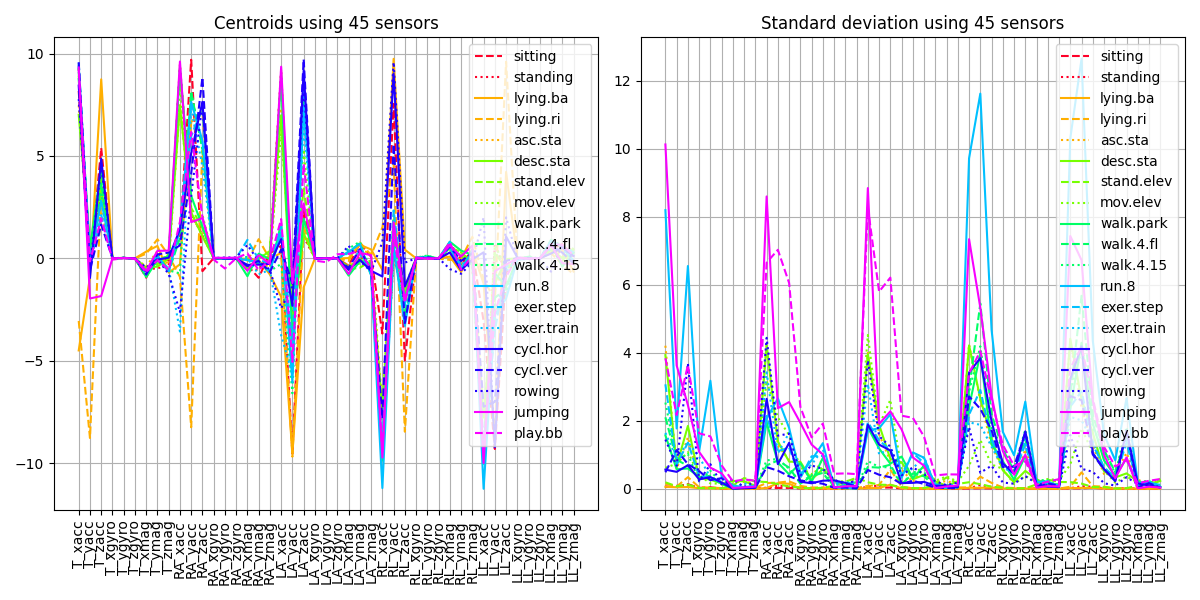
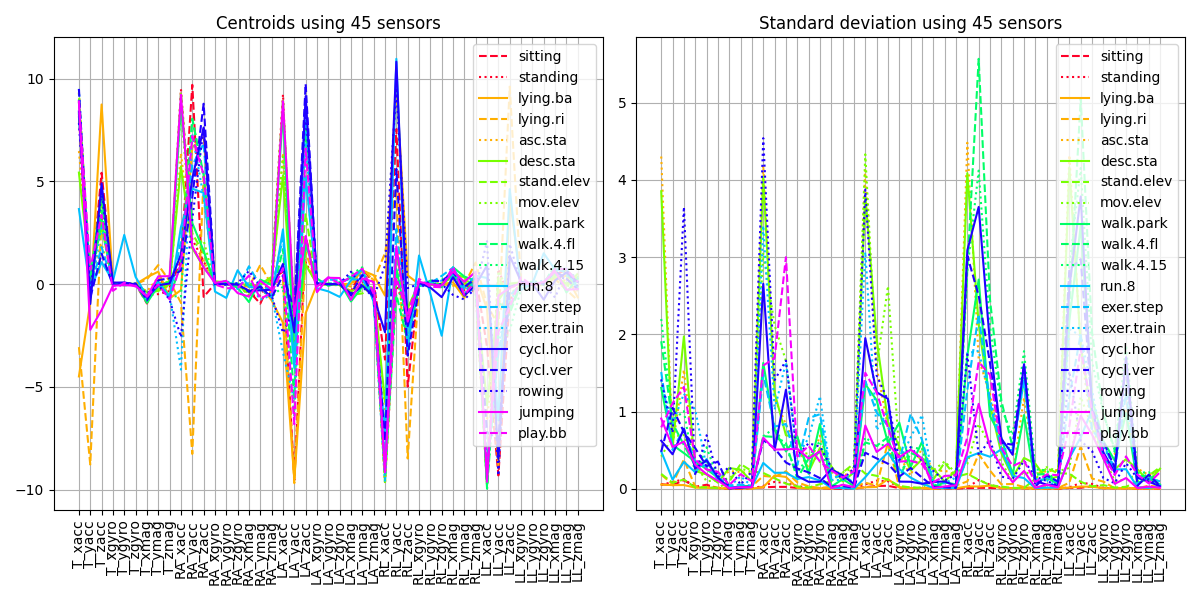
update DBSCAN

Changed region(s): [[0.0308, 0.03, 0.9867, 0.99]]

diff --git a/LAB04/data_visualization.py b/LAB04/data_visualization.py
@@ -16,6 +16,9 @@ import pandas as pd
 import matplotlib.pyplot as plt
 import numpy as np
 import sub.functions as myFn
+from sklearn.preprocessing import  StandardScaler
+from sklearn.decomposition import PCA
+import sklearn.cluster as sk
 cm = plt.get_cmap('gist_rainbow')
 line_styles=['solid','dashed','dotted']
 #pd.set_option('display.precision', 3)
@@ -97,6 +100,7 @@ Nslices=12 # number of slices to plot
 slices=list(range(1,Nslices+1))# first Nslices to plot
 fs=25 # Hz, sampling frequency
 samplesPerSlice=fs*5 # samples in each slice
+
 #%% plot the measurements of each selected sensor for each of the activities
 plotSensAct = False
 if plotSensAct:
@@ -120,37 +124,60 @@ if plotSensAct:
     #plt.show()
 #%% plot centroids and stand. dev. of sensor values
 print('Number of used sensors: ',len(sensors))
-centroids=np.zeros((NAc,len(sensors)))# centroids for all the activities
-stdpoints=np.zeros((NAc,len(sensors)))# variance in cluster for each sensor
-plt.figure(figsize=(12,6))
+n_averageSens = 45
+centroids=np.zeros((NAc,n_averageSens))# centroids for all the activities
+stdpoints=np.zeros((NAc,n_averageSens))# variance in cluster for each sensor
+# Evaluate centroids and std of sensor values
 for i in range(1,NAc+1):
     activities=[i]
     x=myFn.generateDF(filedir,sensNamesSub,patients,activities,slices)
     x=x.drop(columns=['activity'])
-    #x = myFn.sampling(x)
+    data = x.values
+    cluster = sk.DBSCAN(eps=9, min_samples=3).fit(data)  # fitting
+    ii = np.argwhere(cluster.labels_ == -1)[:, 0]  # outliers
+    x = x.drop(ii)
+    x = myFn.sampling(x, 30)
+    
+    #corr_matr = myFn.evaluateCorr(x)
     centroids[i-1,:]=x.mean().values
-    plt.subplot(1,2,1)
-    lines = plt.plot(centroids[i-1,:],label=actNamesShort[i-1])
-    lines[0].set_color(cm(i//3*3/NAc))
-    lines[0].set_linestyle(line_styles[i%3])
     stdpoints[i-1]=np.sqrt(x.var().values)
+
+# Plotting centroids and std of sensor values
+plotCentr = False
+if plotCentr:
+    plt.figure(figsize=(12,6))
+    for i in range(1,NAc+1):
+        activities=[i]
+        x=myFn.generateDF(filedir,sensNamesSub,patients,activities,slices)
+        x=x.drop(columns=['activity'])
+        data = x.values
+        cluster = sk.DBSCAN(eps=3.1).fit(data)  # fitting
+        ii = np.argwhere(cluster.labels_ == -1)[:, 0]  # outliers
+        x = x.drop(ii)
+        x = myFn.sampling(x, 60)
+        centroids[i-1,:]=x.mean().values
+        plt.subplot(1,2,1)
+        lines = plt.plot(centroids[i-1,:],label=actNamesShort[i-1])
+        lines[0].set_color(cm(i//3*3/NAc))
+        lines[0].set_linestyle(line_styles[i%3])
+        stdpoints[i-1]=np.sqrt(x.var().values)
+        plt.subplot(1,2,2)
+        lines = plt.plot(stdpoints[i-1,:],label=actNamesShort[i-1])
+        lines[0].set_color(cm(i//3*3/NAc))
+        lines[0].set_linestyle(line_styles[i%3])
+    plt.subplot(1,2,1)
+    plt.legend(loc='upper right')
+    plt.grid()
+    plt.title('Centroids using '+ str(len(sensors))+' sensors')
+    plt.xticks(np.arange(x.shape[1]),list(x.columns),rotation=90)
     plt.subplot(1,2,2)
-    lines = plt.plot(stdpoints[i-1,:],label=actNamesShort[i-1])
-    lines[0].set_color(cm(i//3*3/NAc))
-    lines[0].set_linestyle(line_styles[i%3])
-plt.subplot(1,2,1)
-plt.legend(loc='upper right')
-plt.grid()
-plt.title('Centroids using '+str(len(sensors))+' sensors')
-plt.xticks(np.arange(x.shape[1]),list(x.columns),rotation=90)
-plt.subplot(1,2,2)
-plt.legend(loc='upper right')
-plt.grid()
-plt.title('Standard deviation using '+str(len(sensors))+' sensors')
-plt.xticks(np.arange(x.shape[1]),list(x.columns),rotation=90)
-plt.tight_layout()
-plt.savefig(pathCharts + "CentroidandSTD.png")
-#plt.show()
+    plt.legend(loc='upper right')
+    plt.grid()
+    plt.title('Standard deviation using '+str(len(sensors))+' sensors')
+    plt.xticks(np.arange(x.shape[1]),list(x.columns),rotation=90)
+    plt.tight_layout()
+    plt.savefig(pathCharts + "CentroidandSTD.png")
+    #plt.show()
 #%% between centroids distance 
 d=np.zeros((NAc,NAc))
 for i in range(NAc):
@@ -162,7 +189,7 @@ plt.colorbar()
 plt.xticks(np.arange(NAc),actNamesShort,rotation=90)
 plt.yticks(np.arange(NAc),actNamesShort)
 plt.savefig(pathCharts + "MatCentroidDistance.png")
-#plt.title('Between-centroids distance')
+plt.title('Between-centroids distance')
 
 #%% compare minimum distance between two centroids and mean distance from a cluster point
 # and its centroid

diff --git a/LAB04/sub/functions.py b/LAB04/sub/functions.py
@@ -20,11 +20,45 @@ def generateDF(filedir,colnames,patients,activities,slices):
                           sort=False, copy=True)
   return x
 
-def sampling(x):
+# Function for sampling at different frequency (not 25 Hz)
+def sampling(x, n_samples):
     
     lenDf = len(x)
-    t = np.linspace(0, lenDf - 1, 60, dtype=int)
+    t = np.linspace(0, lenDf - 1, n_samples, dtype=int)
     sampled_x = pd.DataFrame(0, index = np.arange(len(t)), columns=x.columns)
     for i in range(len(t)):
         sampled_x.iloc[i] = x.iloc[t[i]]
     return sampled_x
+
+# Function for average each sensor on the three different axis
+
+def AverageSensors(x):
+    x = x.values
+    n_sensors = x.shape[1]
+    N = x.shape[0]
+    averaged_x = np.zeros([N, int(n_sensors/3)])
+    for i in range(N):
+        k = 0
+        for j in range(int(n_sensors/3)):
+            averaged_x[i][j] = np.linalg.norm(x[i, (j+k):(j+k+3)])
+            k += 2
+    averaged_x = pd.DataFrame(averaged_x, columns=['T_acc', 'T_gyro', 'T_mag',
+                                                    'RA_acc', 'RA_gyro', 'RA_mag',
+                                                    'LA_acc', 'LA_gyro,', 'LA_mag',
+                                                    'RL_acc', 'RL_gyro', 'RL_mag',
+                                                    'LL_acc', 'LL_gyro', 'LL_mag'])
+    return averaged_x
+
+def standardize_features(x):
+    features = x.columns
+    for feature in features:
+        x[feature] = np.log(x[feature]+1e-9)
+    return x
+
+def evaluateCorr(x): #correlation for sensors
+    x = x.values
+    corr_matr = np.zeros([x.shape[0], x.shape[0]])
+    for i in range(x.shape[0]):
+        for j in range(x.shape[0]):
+            corr_matr[i][j] = np.corrcoef(x[i], x[j])[0][1]
+    return corr_matr

diff --git a/LAB04/pre-processing.md b/LAB04/pre-processing.md
@@ -1,5 +1,25 @@
 # PRE-PROCESSING IDEAS
-- DBSCAN: solves outliers problem but is not enough
+- DBSCAN: solves outliers problem but is not enough 
 - Change frequency: useless
 - Smoothing:
     - moving average algorithm
+- Try to average by sensors: average sensor_x , sensor_y, sensor_z
+
+
+# Features
+sensNames=[
+        'T_xacc', 'T_yacc', 'T_zacc', 
+        'T_xgyro','T_ygyro','T_zgyro',
+        'T_xmag', 'T_ymag', 'T_zmag',
+        'RA_xacc', 'RA_yacc', 'RA_zacc', 
+        'RA_xgyro','RA_ygyro','RA_zgyro',
+        'RA_xmag', 'RA_ymag', 'RA_zmag',
+        'LA_xacc', 'LA_yacc', 'LA_zacc', 
+        'LA_xgyro','LA_ygyro','LA_zgyro',
+        'LA_xmag', 'LA_ymag', 'LA_zmag',
+        'RL_xacc', 'RL_yacc', 'RL_zacc', 
+        'RL_xgyro','RL_ygyro','RL_zgyro',
+        'RL_xmag', 'RL_ymag', 'RL_zmag',
+        'LL_xacc', 'LL_yacc', 'LL_zacc', 
+        'LL_xgyro','LL_ygyro','LL_zgyro',
+        'LL_xmag', 'LL_ymag', 'LL_zmag']
